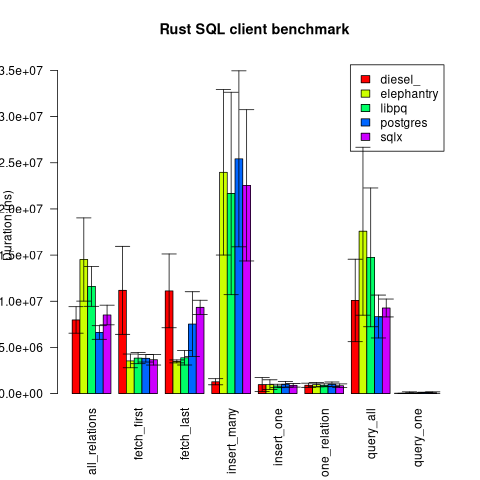
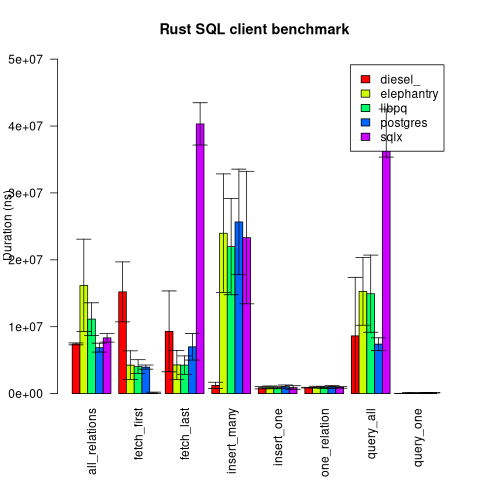
Updates sqlx to 0.4

diff --git a/src/sqlx.rs b/src/sqlx.rs
@@ -1,5 +1,3 @@
-use sqlx::postgres::PgQueryAs;
-
 #[derive(Clone, sqlx::FromRow)]
 pub struct User {
     pub id: Option<i32>,
@@ -15,7 +13,7 @@ impl crate::Client for sqlx::PgConnection {
 
     fn create(dsn: &str) -> Result<Self, Self::Error> {
         async_std::task::block_on({
-            use sqlx::prelude::Connect;
+            use sqlx::Connection;
             sqlx::PgConnection::connect(dsn)
         })
     }
